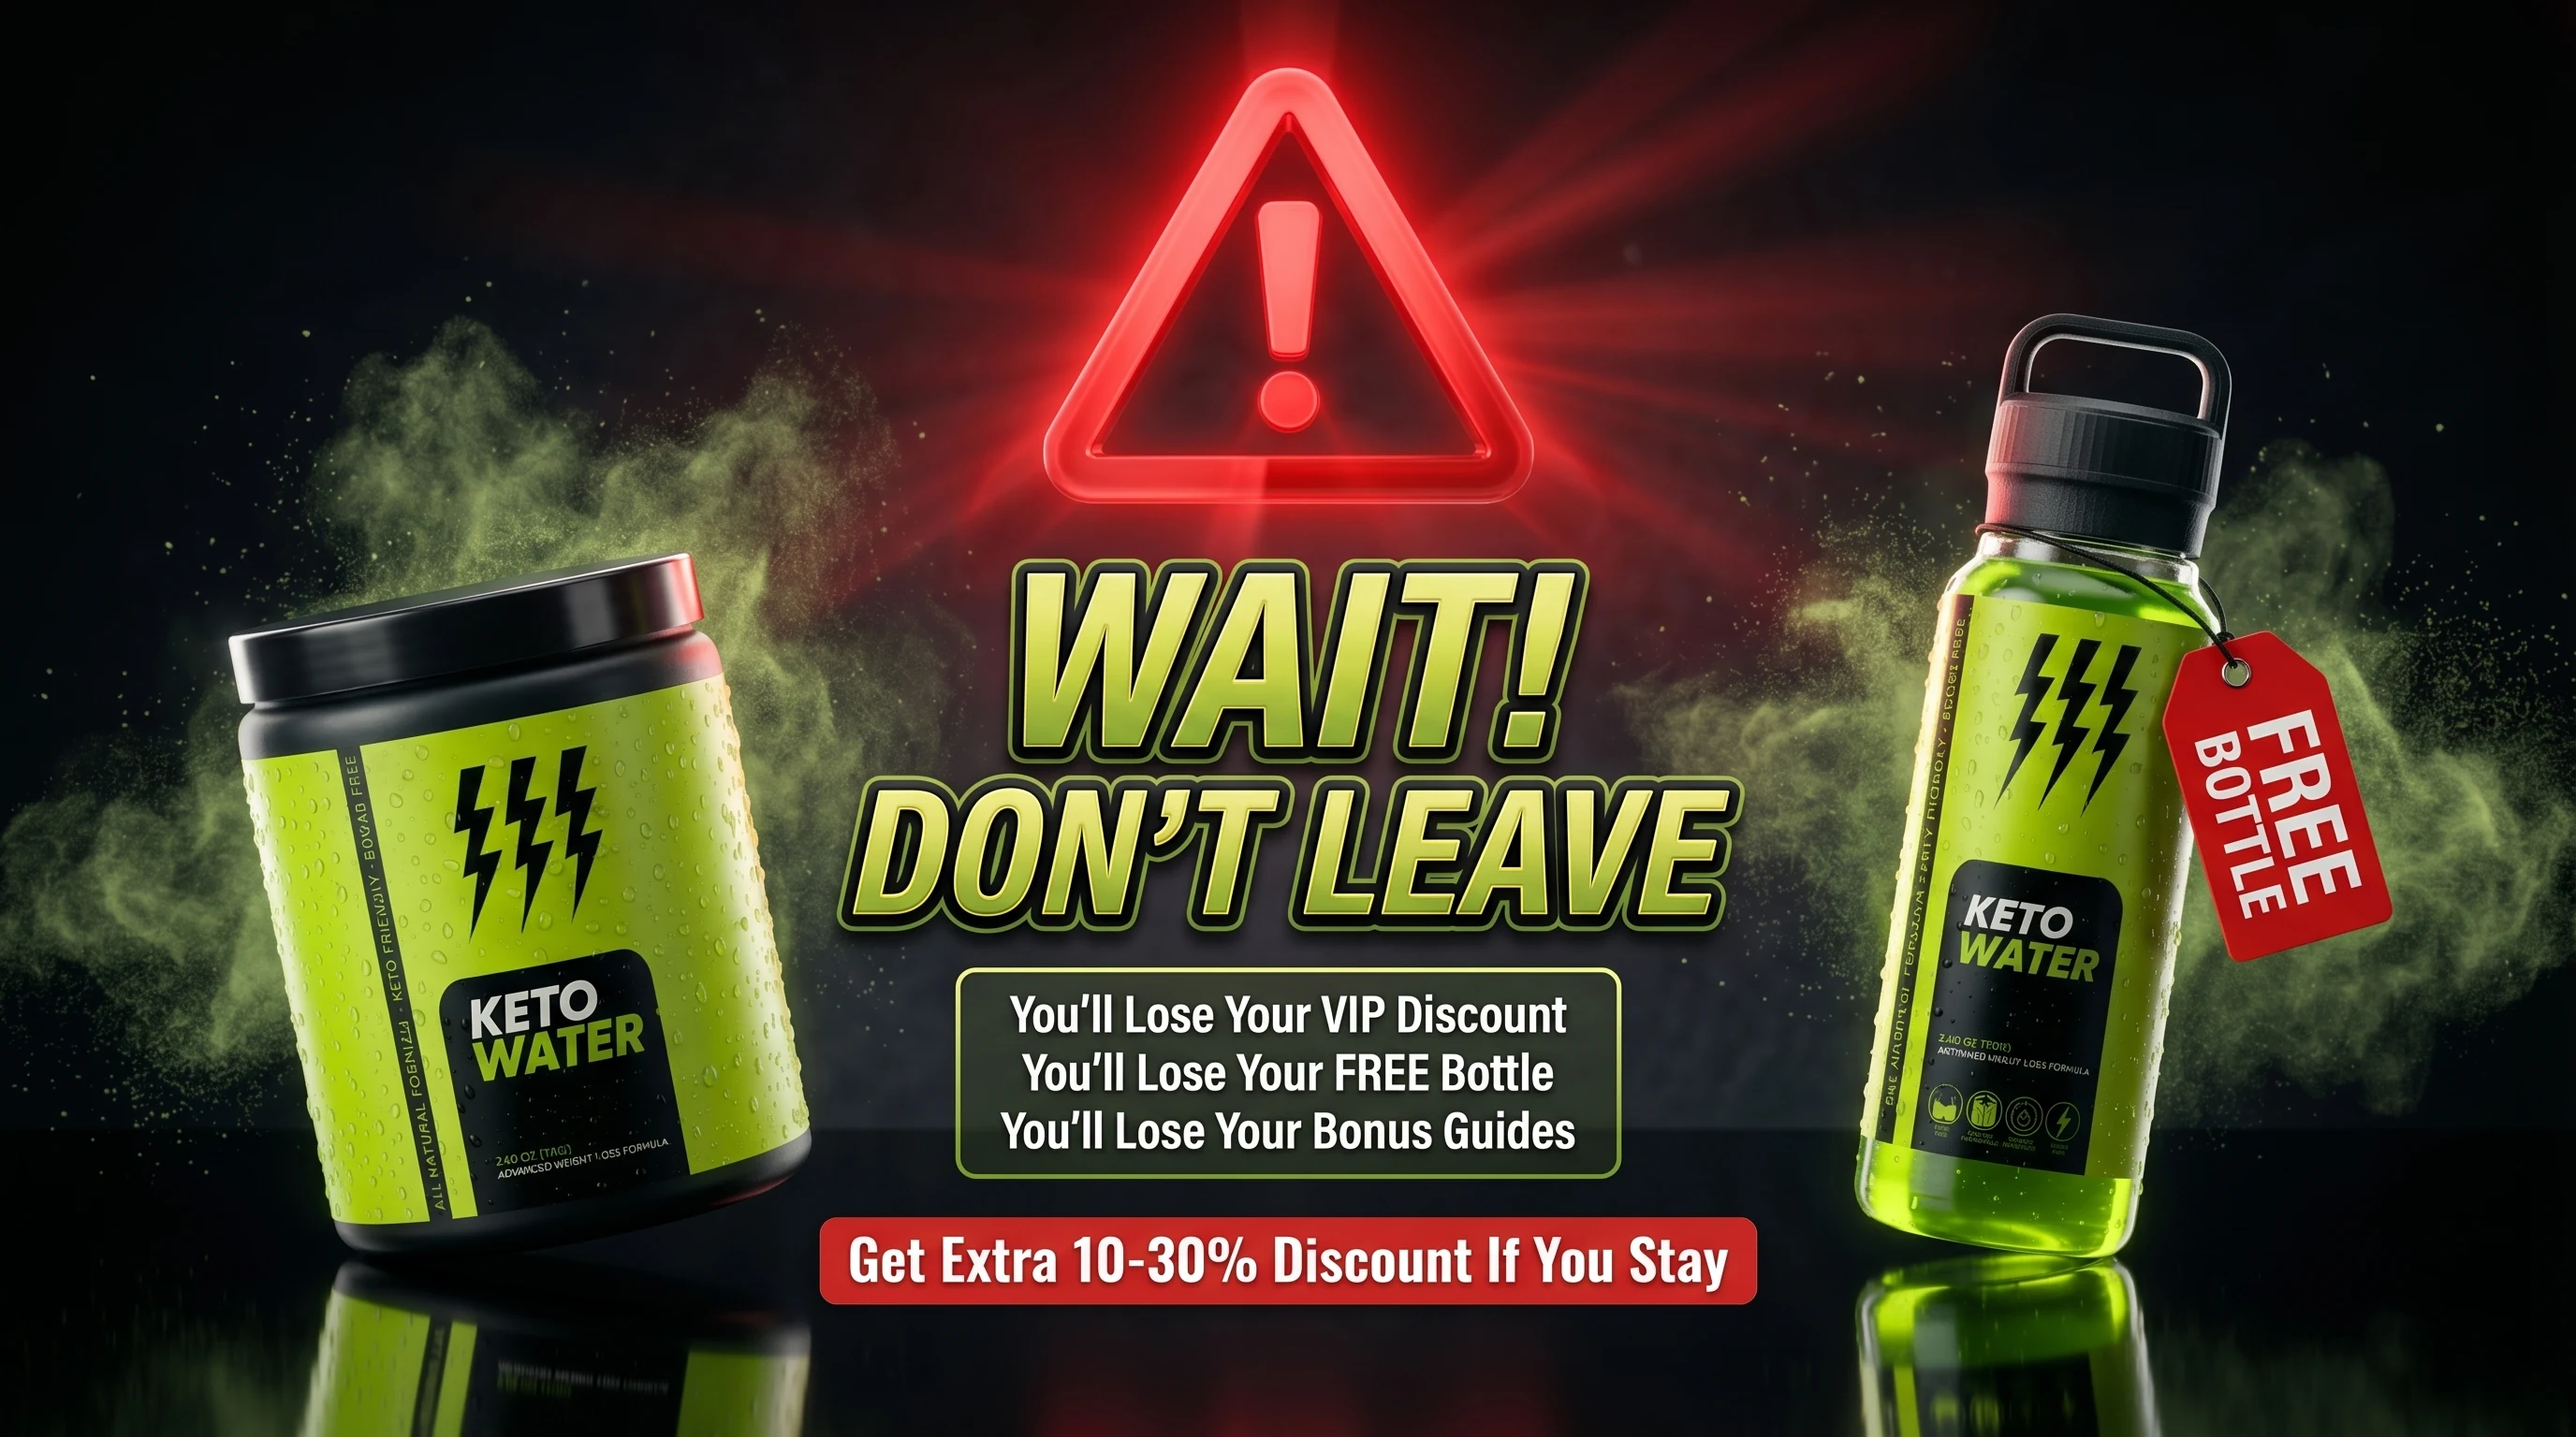
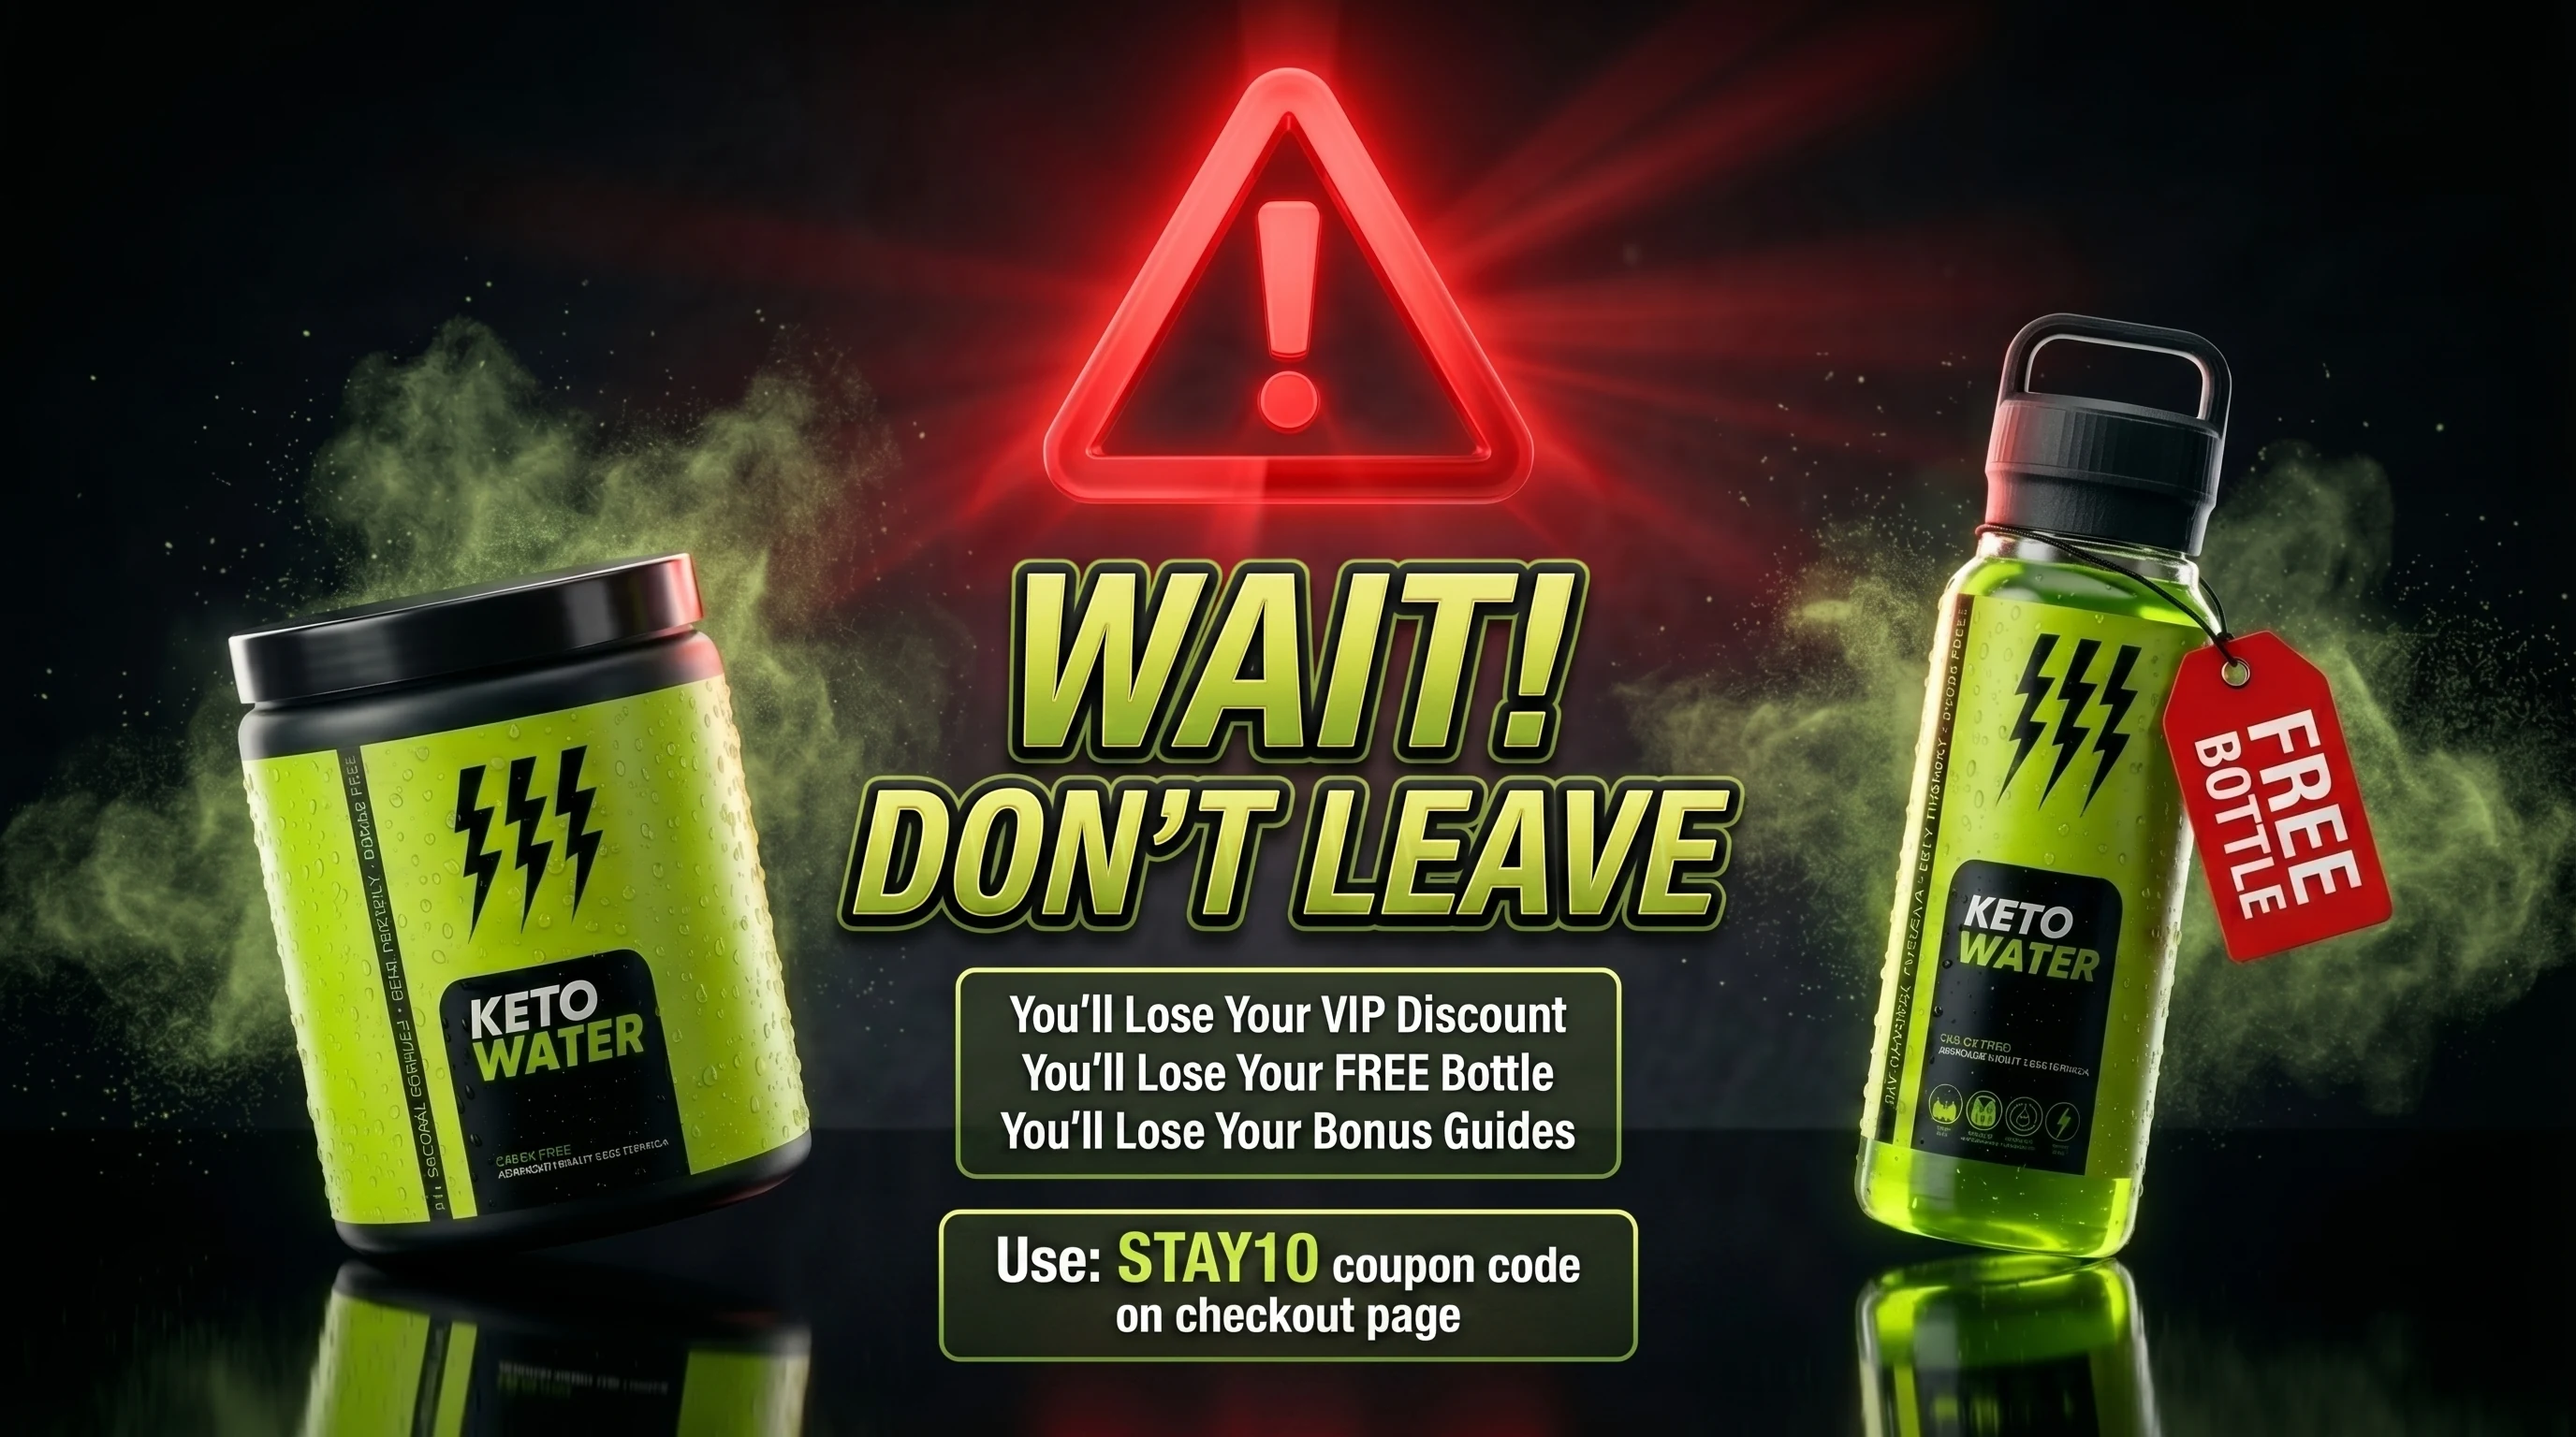
Replace exit popup image with updated version (STAY10 coupon variant)

diff --git a/desktop.html b/desktop.html
@@ -6318,7 +6318,7 @@ function localVideoPlay(overlay){
 <!-- ── Exit Intent Popup ── -->
 <div id="kw-exit-overlay">
   <div id="kw-exit-popup">
-    <img src="Images/exit-popup.webp?v=20260413" alt="Wait! Don't Leave — Get Extra 10-30% Discount If You Stay">
+    <img src="Images/exit-popup.webp?v=20260414" alt="Wait! Don't Leave — Get Extra 10-30% Discount If You Stay">
   </div>
 </div>
 <style>
@@ -6388,7 +6388,7 @@ function localVideoPlay(overlay){
   overlay.addEventListener('click', hide);
   /* Preload image after page load */
   window.addEventListener('load', function() {
-    var pre = new Image(); pre.src = 'Images/exit-popup.webp?v=20260413';
+    var pre = new Image(); pre.src = 'Images/exit-popup.webp?v=20260414';
   });
 })();
 </script>

diff --git a/mobile.html b/mobile.html
@@ -6429,7 +6429,7 @@ function localVideoPlay(overlay){
 <!-- ── Exit Intent Popup ── -->
 <div id="kw-exit-overlay">
   <div id="kw-exit-popup">
-    <img src="Images/exit-popup.webp?v=20260413" alt="Wait! Don't Leave — Get Extra 10-30% Discount If You Stay">
+    <img src="Images/exit-popup.webp?v=20260414" alt="Wait! Don't Leave — Get Extra 10-30% Discount If You Stay">
   </div>
 </div>
 <style>
@@ -6499,7 +6499,7 @@ function localVideoPlay(overlay){
   overlay.addEventListener('click', hide);
   /* Preload image after page load */
   window.addEventListener('load', function() {
-    var pre = new Image(); pre.src = 'Images/exit-popup.webp?v=20260413';
+    var pre = new Image(); pre.src = 'Images/exit-popup.webp?v=20260414';
   });
 })();
 </script>
